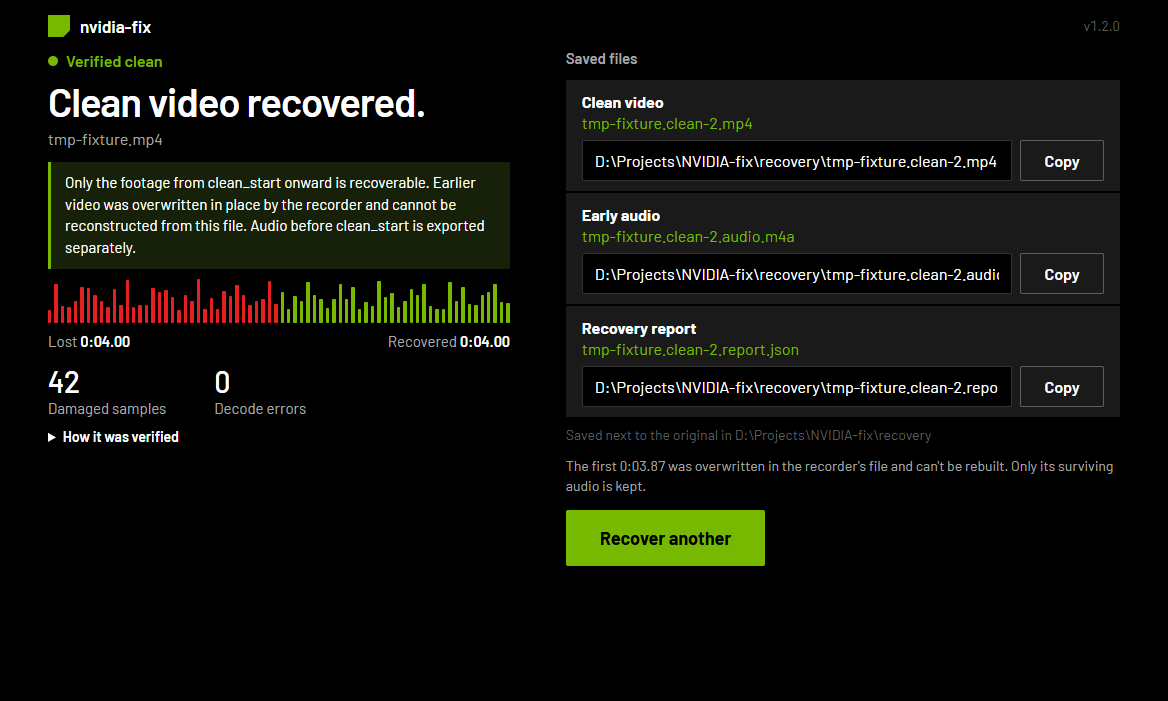
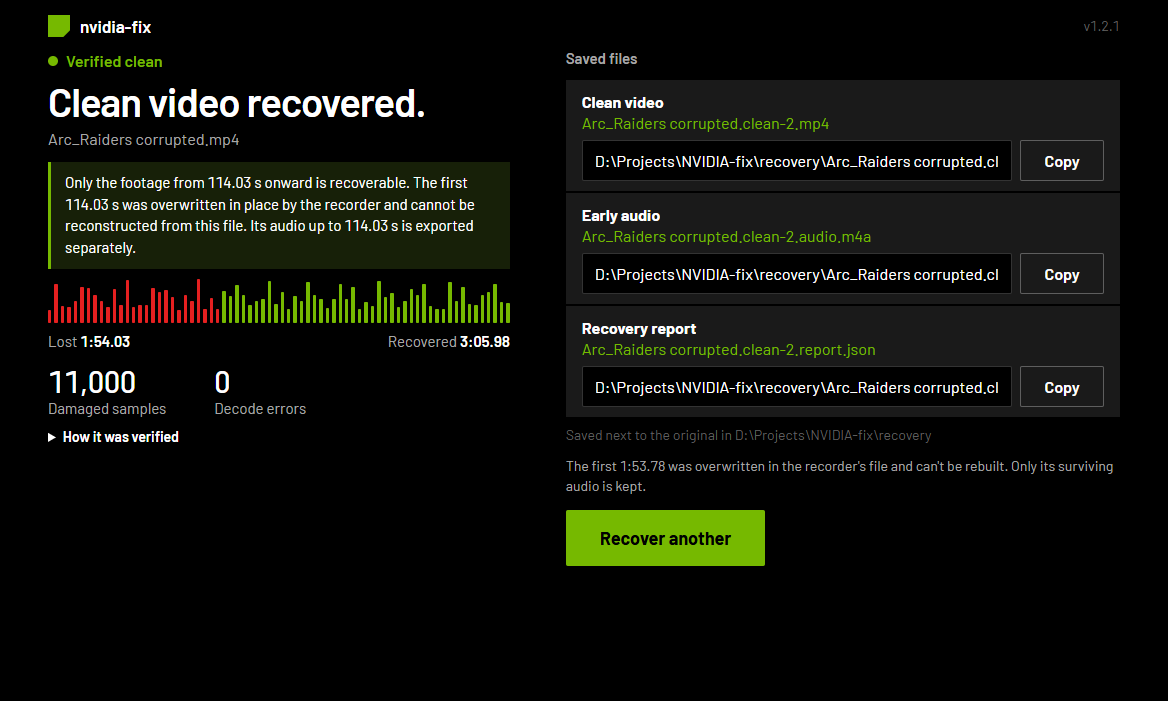
Shorten the README and refresh the screenshots from the real window

diff --git a/README.md b/README.md
@@ -1,344 +1,53 @@
 # NVIDIA-Fix
 
-**Recover the clean tail of a corrupted NVIDIA ShadowPlay recording — locally, without re-encoding the surviving video.**
+**Fix a corrupted NVIDIA ShadowPlay recording. Get a clean, playable copy — no re-encoding, nothing uploaded.**
 
-[![CI](https://github.com/yassine808/NVIDIA-fix/actions/workflows/ci.yml/badge.svg)](https://github.com/yassine808/NVIDIA-fix/actions/workflows/ci.yml)
-[![Release](https://img.shields.io/github/v/release/yassine808/NVIDIA-fix)](https://github.com/yassine808/NVIDIA-fix/releases/latest)
-[![Downloads](https://img.shields.io/github/downloads/yassine808/NVIDIA-fix/total)](https://github.com/yassine808/NVIDIA-fix/releases)
-[![License: MIT](https://img.shields.io/github/license/yassine808/NVIDIA-fix)](LICENSE)
-[![Windows 10/11](https://img.shields.io/badge/platform-Windows%2010%2F11-0078D4)](#desktop-app-windows)
+[![Download](https://img.shields.io/badge/Download-NVIDIA--Fix.exe-f0b44a?style=for-the-badge&logo=windows&logoColor=1a1204)](https://github.com/yassine808/NVIDIA-fix/releases/latest)
 
-<p align="center">
-  <a href="https://github.com/yassine808/NVIDIA-fix/releases/latest/download/NVIDIA-Fix.exe">
-    <img src="https://img.shields.io/badge/Download-NVIDIA--Fix.exe-f0b44a?style=for-the-badge&logo=windows&logoColor=1a1204" alt="Download NVIDIA-Fix.exe">
-  </a>
-</p>
+![NVIDIA-Fix home screen](docs/screenshots/home.png)
 
-<p align="center">
-  <img src="docs/screenshots/home.png" alt="NVIDIA-Fix home screen: drop a recording, click Recover video, get a clean copy" width="760">
-</p>
+## What it does
 
-<p align="center">
-  <b>Drop a ShadowPlay clip → click Recover video → get a clean copy beside the original.</b><br>
-  No uploading, no re-encoding, no cloud. Your recording never leaves the machine.
-</p>
+Pick a broken ShadowPlay clip. Press **Recover video**. You get:
 
-NVIDIA-Fix is a native Windows desktop app and command-line tool for a specific
-ShadowPlay failure: the recorder replaces the beginning of a clip with a
-byte-shifted copy of later footage while leaving the MP4 index intact. Players
-show a broken or duplicated opening, but the ending is usually untouched.
+- `clip.clean.mp4` — the good part, copied (not re-encoded)
+- `clip.clean.audio.m4a` — the sound from the broken part
+- `clip.clean.report.json` — proof of what happened
 
-NVIDIA-Fix finds the exact point where the damage stops, stream-copies the
-clean tail from the first verified keyframe, exports the surviving early audio,
-and writes a JSON report with the evidence.
+![NVIDIA-Fix result screen](docs/screenshots/result.png)
 
-It is deliberately honest: **it recovers what still exists, and it tells you
-what was destroyed.**
+Your original is never changed.
 
-## Why the first part cannot be rebuilt
+## How to use it
 
-This is not a missing index, a bad moov atom, or a file-header problem. In the
-real recording used to validate this tool, the first **113.78 seconds** of video
-were overwritten in place with a drifting copy of later video, followed by
-high-entropy garbage. The original bytes no longer exist in the file.
+1. Download `NVIDIA-Fix.exe` from [Releases](https://github.com/yassine808/NVIDIA-fix/releases/latest) and run it.
+2. Drop your recording on the window (or browse / paste the path).
+3. Click **Recover video** and wait.
 
-Forensic packet mapping from that recording:
+The app shows how much was lost and how much was recovered, then lists the saved files.
 
-| Original timestamp | Bytes now come from |
-| --- | --- |
-| `0.00 s` | `182.315 s` |
-| `10.01 s` | `193.531 s` |
-| `30.01 s` | `213.506 s` |
-| `50.01 s` | `234.764 s` |
-| `70.01 s` | `259.622 s` |
-| `90.01 s` | `281.880 s` |
-| `100.01 s` | `291.913 s` |
-| `110.01 s` | no match — garbage |
+## The honest part
 
-The container still describes a 300-second recording, but the early video
-samples point at copies of later samples. Rebuilding the missing gameplay from
-those copies would produce the wrong footage, not a recovery. No tool can
-invent the original frames.
+If ShadowPlay overwrote the start of the clip with a copy of later footage, that
+start is gone. No tool can bring it back. This app recovers everything that still
+exists and tells you exactly what was destroyed. It never fakes the missing part.
 
-**Full 300-second video is possible only if another copy of the same gameplay
-exists** — a stream/VOD, a second capture, a backup, or an editor cache. If you
-find one, use the recovered clean tail from this app and the donor's first
-114 seconds, aligned at the cut. The app will not pretend that a donor is the
-original.
+## Requirements
 
-## What you get
+Windows 10 or 11. ffmpeg is included — nothing to install.
 
-<p align="center">
-  <img src="docs/screenshots/result.png" alt="NVIDIA-Fix result page: verified clean video, lost/recovered timeline, saved files" width="760">
-</p>
-
-For an input named `clip.mp4`:
-
-| Output | Contents |
-| --- | --- |
-| `clip.clean.mp4` | Video stream-copied from the first clean IDR, plus the original audio |
-| `clip.clean.audio.m4a` | Audio from before the cut, so the early sound is not lost |
-| `clip.clean.full-length.mp4` | Optional complete-length rebuild: the copied opening, then the clean tail, with the original audio for the whole timeline |
-| `clip.clean.report.json` | Boundary timestamps, sample counts, packet SHA-256, decode results |
-
-Existing files are never overwritten. A second run produces `clip.clean-2.mp4`,
-and so on. The input is opened read-only.
-
-The full-length rebuild is only written when a duplication map sits next to the
-input (see `explain` below), because that map is what proves which later footage
-the recorder wrote over the head. Its opening **repeats** footage from later in
-the same recording — same session, real frames, wrong position on the timeline.
-It is a rebuild, never the lost original opening, and both the report and the app
-label it that way.
-
-## Desktop app (Windows)
-
-### ffmpeg ships with the app
-
-ffmpeg and ffprobe are bundled: `npm run fetch-ffmpeg` downloads the latest
-Windows build from gyan.dev into `recovery/tools/ff/`, `npm run dist` copies it
-into the installer, and the engine always prefers that copy over anything on
-`PATH` (override with `FFMPEG_BINARY` / `FFPROBE_BINARY` if you want your own).
-
-Building a package therefore needs network access once; running the app never
-does. If you prefer a system install anyway:
-
-```powershell
-winget install Gyan.FFmpeg
-```
-
-### Download and run
-
-Download **[NVIDIA-Fix.exe](https://github.com/yassine808/NVIDIA-fix/releases/latest/download/NVIDIA-Fix.exe)**
-from the latest release and double-click it.
-
-1. Drop the corrupted recording, browse for it, or paste its full path.
-2. Leave **Verify the full video after cutting** ticked for the full decode.
-3. Click **Recover video**.
-
-Outputs are written next to the original, and the result page lists every file
-with its absolute path. The app shows the damage boundary, the recovered
-duration, packet count, decode errors, and a lost/recovered timeline. Recovery
-runs in a background process, the window stays responsive, and the run can be
-cancelled. When the rebuild exists, the result page also labels it as a rebuild.
-
-### Run from source
-
-The whole app is Electron + TypeScript in this repository root. The recovery
-engine is TypeScript too (`src/engine/`): the main process spawns
-`dist/engine/bridge.js` with Electron in Node mode, and it streams progress back
-to the window as JSON lines.
+## Build from source
 
 ```powershell
 npm install
-npm start
+npm start          # run the app
+npm run dist       # build release\NVIDIA-Fix-<version>.exe
+npm test           # engine tests
 ```
 
-`npm run build` type-checks and compiles `src/` into `dist/`. The renderer is
-sandboxed and has no Node access. `npm run smoke -- --path <video>` drives the
-real window end to end with only Node built-ins.
-
-Supported actions: **Browse files**, drag-and-drop, or paste a path; live
-progress; cancel; and a copyable path for every output.
-
-Output names are `‹name›.clean.mp4`, `‹name›.clean.audio.m4a` and
-`‹name›.clean.report.json`, all next to the input.
-
-## CLI (from a source checkout)
-
-The engine also has a command-line front end, but it is **not** part of the
-installed app — there is no `nvidia-fix.exe` command on `PATH`. Run it from a
-clone:
-
-```powershell
-# inspect without writing anything
-npm run engine -- analyze "D:\Videos\clip.mp4"
-
-# recover
-npm run engine -- fix "D:\Videos\clip.mp4"
-
-# choose an output directory / skip the full decode (faster)
-npm run engine -- fix "D:\Videos\clip.mp4" --out "D:\Recovered" --no-full-decode
-
-# also rebuild the complete length (copied opening + clean tail + original audio)
-npm run engine -- fix "D:\Videos\clip.mp4" --full-length
-
-# machine-readable output
-npm run engine -- analyze "D:\Videos\clip.mp4" --json
-npm run engine -- fix "D:\Videos\clip.mp4" --json
-
-# how much of the damaged opening is a copy of later footage, and how much is gone
-npm run engine -- explain "D:\Videos\clip.mp4"
-```
-
-Exit codes: `0` success (including an already-healthy file), `2` a handled error
-such as an unsupported codec or no clean keyframe.
-
-## How it works
-
-1. `ffprobe` lists every video packet with its timestamp, size, and byte offset.
-2. Each sample is checked as an AVCC H.264 sample. Every length-prefixed NAL
-   unit must fit, the forbidden bit must be clear, and the NAL type must be
-   1–12. Multi-NAL samples are parsed fully. No decoding is needed for this pass.
-3. The **last invalid sample** is the damage boundary.
-4. The first keyframe after the boundary with a stable run of valid samples is
-   the clean start.
-5. `ffmpeg -ss <start + 0.005> -i input -c copy` cuts from that IDR. The offset
-   makes the seek land on the chosen keyframe.
-6. The first output video packet is compared byte-for-byte with the source
-   sample. If it does not match, the next candidate keyframe is tried.
-7. The first two seconds are decoded; then the full recovered video is decoded
-   and any error lines are recorded in the report.
-8. Early audio is exported with `-t <boundary> -c copy`.
-
-Audio packet granularity means the early-audio file can include a fraction of a
-second that belongs after the video boundary. Video frames are never duplicated
-or re-encoded.
-
-## Verified on a real corrupted recording
-
-The detector and cut were validated against a 439,194,252-byte ShadowPlay DVR:
-
-- **35,998** video samples, **11,000** invalid
-- Last invalid sample at **113.781922 s**
-- First clean IDR at **114.031811 s** (index 13,680)
-- **22,318** video packets recovered, **185.98 s** of video
-- First and last output packet SHA-256 matched the source
-- Full decode: **0 errors**
-- Original, `fixed.mp4`, and recovered files were hash-checked; the input was
-  never modified
-
-The full-length rebuild of the same recording (`--full-length`, or the checkbox
-in the desktop app) measures:
-
-- Video **300.008622 s / 35,999 frames**, audio **300.010250 s / 14,062 frames**
-  (the original frame count)
-- Fills **114.032 s** of the missing opening with footage from
-  **182.540–296.572 s** of the same recording — the window the recorder copied
-  over the head — then the untouched tail from 114.031811 s
-- Full decode at below-normal priority: **0 H.264 errors, 0 AAC errors**
-- Its output is labelled a rebuild everywhere: filename, report
-  `full_length.caveat`, CLI line, and the app's result card
-
-The early video in that file was overwritten by a drifting copy of later
-footage, then replaced by high-entropy garbage with no recoverable reference
-frames. That section is not recoverable from this file, and the app says so.
-
-### How much is duplicated, how much is gone
-
-`npm run engine -- explain` answers that from the recorded duplication map
-(`forensics/duplication_dense.py`), clipped at the measured damaged boundary:
-
-```
-Damaged prefix : 113.782 s
-  copied later : 105.730 s (92.9% of the prefix, 80.8% of the scanned blocks)
-  destroyed    : 8.052 s
-  copy window  : container 0.12 s -> content 182.54 s ... 107.54 s -> 299.79 s
-Recoverable    : 186.231 s of 300.013 s (62.1%)
-```
-
-So the missing 113.782 s is not 113.782 s of vanished pictures: 105.730 s of it
-is a byte-shifted copy of footage that still exists later in the file (which is
-why the opening plays smeared and duplicated), and **8.052 s exists nowhere in
-these bytes**. No repair tool restores the original 300 s from this file. The
-same numbers appear in the recovery report as `duplication`, and in the desktop
-app under the result card.
-
-## Supported input
-
-- H.264 (AVC) in MP4, MOV, or M4V
-- Files whose packets expose byte offsets (normal non-fragmented MP4/MOV)
-- Corruption that leaves a valid keyframe somewhere after the damage
-
-HEVC is rejected with a clear error. Support would require parsing HEVC NAL
-headers and choosing a clean IRAP frame; the current version deliberately does
-not guess. Fragmented MP4 may not expose packet offsets; remux with `-c copy`
-first.
-
-## Build the Windows executable
-
-```powershell
-npm install
-npm run dist
-```
-
-`npm run dist` downloads the latest ffmpeg build if needed, compiles the
-TypeScript app, stages the engine plus that portable ffmpeg, and runs
-electron-builder, producing `release\NVIDIA-Fix-1.2.1.exe`. The
-installer carries its own `ffmpeg.exe`/`ffprobe.exe`, so the target machine
-needs nothing installed.
-
-## Tests
-
-```powershell
-npm test
-```
-
-The Node test suite pins the duplication arithmetic, the full-length plan and
-the AVCC/decoder classification. The end-to-end check builds a synthetic
-corrupted clip with ffmpeg, runs the real CLI, and verifies the outputs:
-
-```powershell
-python scripts/ci_e2e.py
-```
-
-`python scripts/make_fixture.py <out.mp4>` writes a corrupted clip for manual
-runs. Both helpers need Python 3.9+; the app itself does not.
-
-## CI
-
-Every push to `main` and every pull request runs four independent Windows checks
-from [`.github/workflows/ci.yml`](.github/workflows/ci.yml):
-
-| Check | What it proves |
-| --- | --- |
-| **1 / Quality and docs** | Python dev tools byte-compile; CLI version works; release files exist |
-| **2 / Unit and integration tests** | Duplication verdict, full-length plan, and the synthetic end-to-end recovery |
-| **3 / Desktop app** | `npm ci`, type-check, and the Electron build compile cleanly |
-| **4 / CLI recovery** | A synthetic corrupted MP4 is analyzed, recovered, and hash-checked end to end |
-
-## FAQ
-
-**Does this overwrite my original?**
-No. The input is opened read-only. Outputs get unique names and existing files
-are never overwritten.
-
-**Can it recover 100% of my clip?**
-Only if another copy of the missing section exists outside this file. If the
-original video bytes were overwritten in place, no software can reconstruct
-them from this file. NVIDIA-Fix recovers the clean tail and the early audio, and
-its report explains the boundary.
-
-**Why is the recovered video shorter than the original?**
-Because the beginning was destroyed. The output starts at the first verified
-clean keyframe. The early audio is saved separately.
-
-**Does it re-encode the clean tail?**
-No. The surviving video is stream-copied; quality is identical to the source.
-
-**Does it support HEVC?**
-Not yet. H.264 MP4/MOV/M4V is supported.
-
-**Which recordings does it target?**
-ShadowPlay/GeForce Experience DVR clips with this in-place overwrite pattern. It
-may help with similar H.264 corruption, but it will refuse to invent a result if
-no clean keyframe exists.
-
-## Project layout
-
-| Path | Purpose |
-| --- | --- |
-| `src/engine/` | Recovery engine, JSON report, CLI |
-| `src/` | Electron main process, preload bridge, renderer, shared types |
-| `scripts/` | Build helpers, fixture generator, end-to-end CLI check |
-| `build/` | App icon (window, taskbar, favicon) |
-| `tests/` | Unit, integration, and real-file tests |
-| `forensics/` | Standalone MP4 analysis tools used for the evidence chain |
-| `.github/workflows/ci.yml` | Four Windows CI checks |
+The app is Electron + TypeScript. The recovery engine lives in `src/engine/`.
+`npm run dist` needs internet once, to download ffmpeg.
 
 ## License
 
 [MIT](LICENSE) © 2026 yassine808
-
-If this tool saved a clip you cared about, a star helps other ShadowPlay users
-find it.
